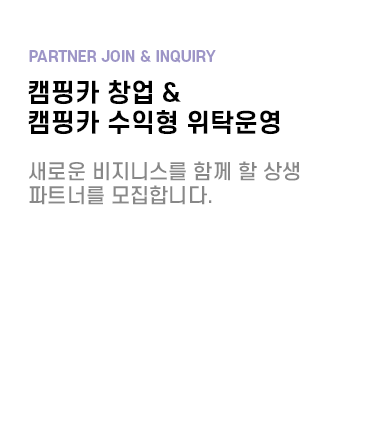
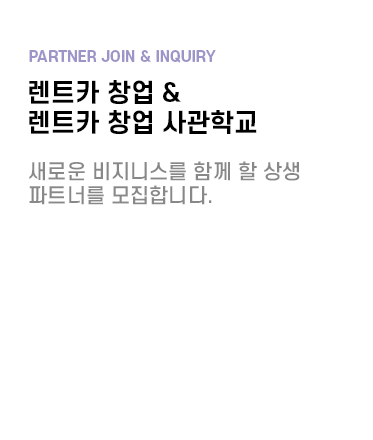
(ch.kim) 렌트카서비스 메인 수정
렌트카 서비스 - 메인 요소들 이미지 변경, css 추가, 캠핑 -> 렌트카 이름 수정,

Changed region(s): [[0.2949, 0.2364, 0.7668, 0.325], [0.059, 0.1773, 0.2064, 0.325]]

diff --git a/01_SOURCE/01_WEB/chanolja_rentcar_service_v_0_0_1 /html/theme/template1/index.php b/01_SOURCE/01_WEB/chanolja_rentcar_service_v_0_0_1 /html/theme/template1/index.php
@@ -133,6 +133,17 @@ include_once(G5_THEME_PATH.'/head.php');
     .ptn_wrap h3{font-size:1.2em; text-align: center; }
     .ptn_wrap p{text-align: center; }
     .ptn_wrap p img{width:100%; }
+
+    .splide__slide{
+        padding-top:10px !important;
+        padding-bottom: 30px !important;
+        text-align:center;
+
+    }
+
+    .splide__slide strong{
+        font-size:20px;
+    }
 </style>
 
 
@@ -144,7 +155,7 @@ include_once(G5_THEME_PATH.'/head.php');
                 <img style="border-radius:10px; box-shadow: 0 10px 30px -10px rgba(0, 0, 0, .35); opacity:1; width:85%;" src="<?php echo G5_THEME_IMG_URL ?>/serch_bar1.png" style="max-width : 100%">
                 <span
                     style="position:absolute; font-size:19px; top:50%; left:7%; transform: translateY(-50%); font-weight:bold;"
-                >고객이 필요한 모든 렌터카 서비스 제공</span>
+                >고객이 필요한 모든 렌트카 서비스 제공</span>
                 <img style="box-shadow: 0 10px 30px -10px rgba(0, 0, 0, .35); opacity:1; margin-left:25px;" src="<?php echo G5_THEME_IMG_URL ?>/serch_bar2.png" style="max-width : 100%">
                 <span
                     style="font-size:19px; position:absolute; right:43px; color:#fff;  top: 50%; transform: translateY(-50%);  letter-spacing:1px;"
@@ -161,7 +172,7 @@ include_once(G5_THEME_PATH.'/head.php');
                 <img style="border-radius:10px; box-shadow: 0 10px 30px -10px rgba(0, 0, 0, .35); opacity:1; width:75%;" src="<?php echo G5_THEME_IMG_URL ?>/serch_bar1.png" style="max-width : 100%">
                 <span
                     style="position:absolute; top:50%; left:7%; transform: translateY(-50%); font-weight:bold;"
-                >캠핑여행 일정을 세워볼까요 ?</span>
+                >고객이 필요한 모든 렌트카 서비스 제공</span>
                 <img style="box-shadow: 0 10px 30px -10px rgba(0, 0, 0, .35); opacity:1; width:25%;" src="<?php echo G5_THEME_IMG_URL ?>/serch_bar2.png" style="max-width : 100%">
                 <span
                     style="position:absolute; right:28px; color:#fff;  top: 50%; transform: translateY(-50%);  letter-spacing:1px;"
@@ -256,7 +267,7 @@ include_once(G5_THEME_PATH.'/head.php');
     </div>
 </div>
 
-<!-- 캠핑 추천 슬라이드 스크립트  -->
+<!-- 렌트카 추천 슬라이드 스크립트  -->
 <script>
 let curPos = 0;
 let postion = 0;
@@ -302,8 +313,8 @@ function touch_end(event) {
 <div class="aboutWrap">
     <div class="box inner">
      		<div class="main_title">
-               <h2 class="wow fadeInDown" data-wow-delay="0.4s">이달의 추천 캠핑여행</h2>
-		      <a href="http://www.chanolja.co.kr/bbs/board.php?bo_table=tour_guide"><h5 class="wow fadeInDown" data-wow-delay="0.4s">전체보기</h5></a>
+               <h2 class="wow fadeInDown" data-wow-delay="0.4s">차놀자렌트카</h2>
+		      <a href="http://testsv.dothome.co.kr//bbs/board.php?bo_table=tour_guide"><h5 class="wow fadeInDown" data-wow-delay="0.4s">전체보기</h5></a>
             </div>
             <div class="detail">
             <?php  echo latest('theme/splide2', 'tour_guide', 4, 4);   ?>
@@ -315,7 +326,7 @@ function touch_end(event) {
 <div class="aboutWrap">
    <div class="box inner">
 		<div class="main_title">
-            <h2 class="wow fadeInDown" data-wow-delay="0.4s">차놀자캠핑 신규입점</h2>
+            <h2 class="wow fadeInDown" data-wow-delay="0.4s">차놀자렌트카 신규입점</h2>
 			<a href="http://www.chanolja.co.kr/bbs/board.php?bo_table=2222"><h5 class="wow fadeInDown" data-wow-delay="0.4s">전체보기</h5></a>
         </div>
         <div class="detail">
@@ -367,7 +378,7 @@ function touch_end(event) {
                      </td>
                      <td width="60%">
                         <!--<?php echo latest('theme/youtube_latest','91',1,50) ?>-->
-                        <iframe style="border-radius:20px;" width="100%" height="400px" src="https://www.youtube.com/embed/Og10OHJKdOo?si=crCM5lIQmih6vrnK" title="YouTube video player" frameborder="0" allow="accelerometer; autoplay; clipboard-write; encrypted-media; gyroscope; picture-in-picture; web-share" allowfullscreen></iframe>
+                        <iframe style="border-radius:20px;" width="100%" height="400px" src="https://www.youtube.com/embed/Qy-G99rthA4?si=6Wqornkikl4UrLwC" title="YouTube video player" frameborder="0" allow="accelerometer; autoplay; clipboard-write; encrypted-media; gyroscope; picture-in-picture; web-share" allowfullscreen></iframe>
                      </td>
                 </tr>
              </table>
@@ -550,7 +561,7 @@ function touch_end(event) {
 <div class="aboutWrap_mo">
     <div class="box inner">
      		<div class="main_title">
-               <h2 class="wow fadeInDown" data-wow-delay="0.4s">이달의 추천 캠핑여행</h2>
+               <h2 class="wow fadeInDown" data-wow-delay="0.4s">차놀자렌트카</h2>
 		      <a href="http://www.chanolja.co.kr/bbs/board.php?bo_table=tour_guide"><h5 class="wow fadeInDown" data-wow-delay="0.4s">전체보기</h5></a>
             </div>
             <div class="detail">
@@ -563,7 +574,7 @@ function touch_end(event) {
 <div class="aboutWrap_mo">
    <div class="box inner">
 		<div class="main_title">
-            <h2 class="wow fadeInDown" data-wow-delay="0.4s">차놀자캠핑 신규입점</h2>
+            <h2 class="wow fadeInDown" data-wow-delay="0.4s">차놀자렌트카 신규입점</h2>
 			<a href="http://www.chanolja.co.kr/bbs/board.php?bo_table=2222"><h5 class="wow fadeInDown" data-wow-delay="0.4s">전체보기</h5></a>
         </div>
         <div class="detail">
@@ -613,7 +624,7 @@ function touch_end(event) {
                        <font size=3>#차놀자렌트카 #차놀자 #렌트</font>  </center>
 
                        <div style="position:relative;height:0;padding-bottom:56.25%">
-                          <iframe src="https://www.youtube.com/embed/Og10OHJKdOo?si=crCM5lIQmih6vrnK"
+                          <iframe src="https://www.youtube.com/embed/Qy-G99rthA4?si=6Wqornkikl4UrLwC"
                           style="position:absolute;width:100%;height:100%;left:0; border-radius:20px;"
                           frameborder="0" allowfullscreen></iframe>
                       </div>
@@ -655,7 +666,7 @@ function touch_end(event) {
 
  </div>
 
-
+<!--
 <div class="pop_up_back" style="display:none;" >
     <div class="pop_up">
         <div>
@@ -670,9 +681,8 @@ function touch_end(event) {
 
     </div>
 
-
 </div>
-
+-->
 <style>
   .pop_up_back{
     z-index: 1000;

diff --git a/01_SOURCE/01_WEB/chanolja_rentcar_service_v_0_0_1 /html/theme/template1/skin/latest/splide2/latest.skin.php b/01_SOURCE/01_WEB/chanolja_rentcar_service_v_0_0_1 /html/theme/template1/skin/latest/splide2/latest.skin.php
@@ -22,7 +22,7 @@ $list_count = (is_array($list) && $list) ? count($list) : 0;
         $img = G5_IMG_URL.'/no_img.png';
         $thumb['alt'] = '이미지가 없습니다.';
     }
-    $img_content = '<img src="'.$img.'" alt="'.$thumb['alt'].'" style="max-witdh:100%;">';
+    $img_content = '<img src="'.$img.'" alt="'.$thumb['alt'].'" style="max-witdh:100%; border-radius:20px; box-shadow: 0 10px 30px -10px rgba(0,0,0,.35);">';
     $wr_href = get_pretty_url($bo_table, $list[$i]['wr_id']);
     ?>
         <li class="splide__slide">

diff --git a/01_SOURCE/01_WEB/chanolja_rentcar_company_v_0_0_1/html/theme/c_rentcar/skin/board/notice/list.skin.php b/01_SOURCE/01_WEB/chanolja_rentcar_company_v_0_0_1/html/theme/c_rentcar/skin/board/notice/list.skin.php
@@ -120,7 +120,7 @@ $g5['title'] = "공지사항";
                         if ($list[$i]['is_notice']) // 공지사항
                             echo '<strong class="notice_icon">공지</strong>';
                         else
-                            echo $list[$i]['num'];
+                            echo $list[$i]['wr_num'];
                         ?>
                         </td>
 
